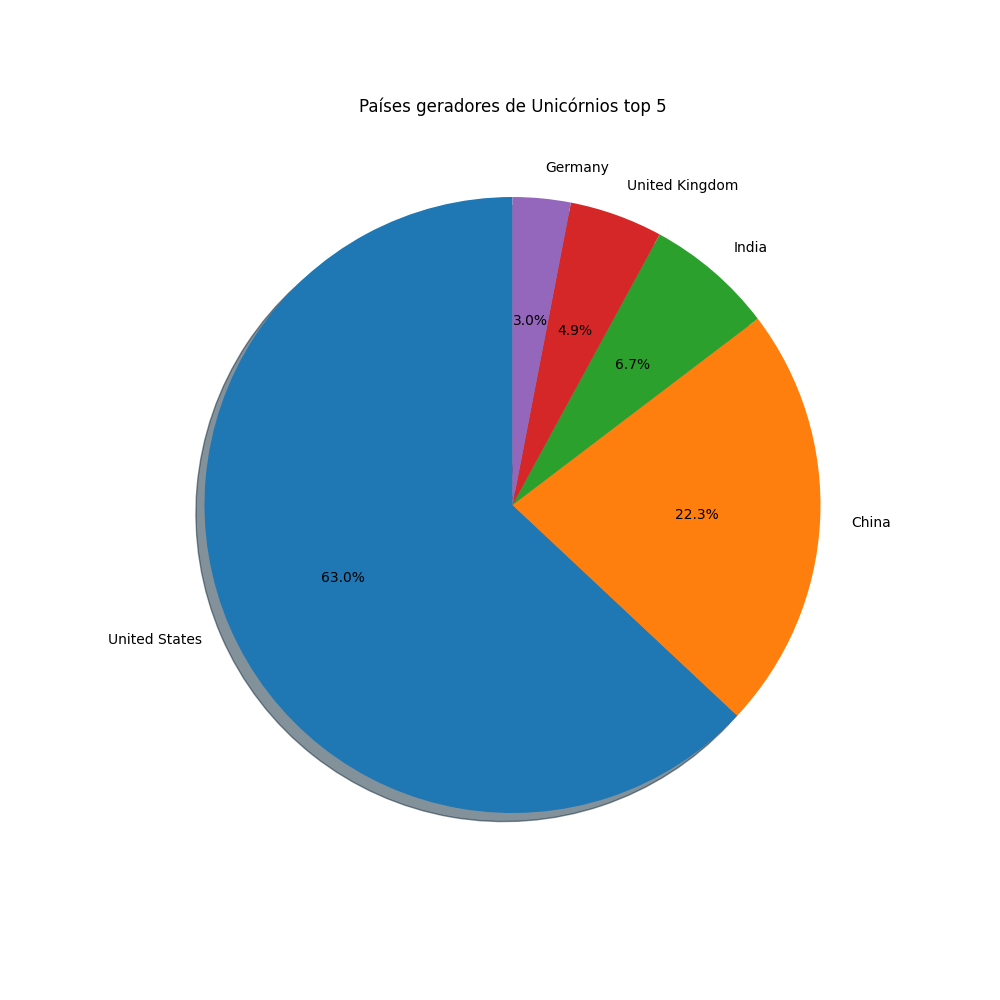
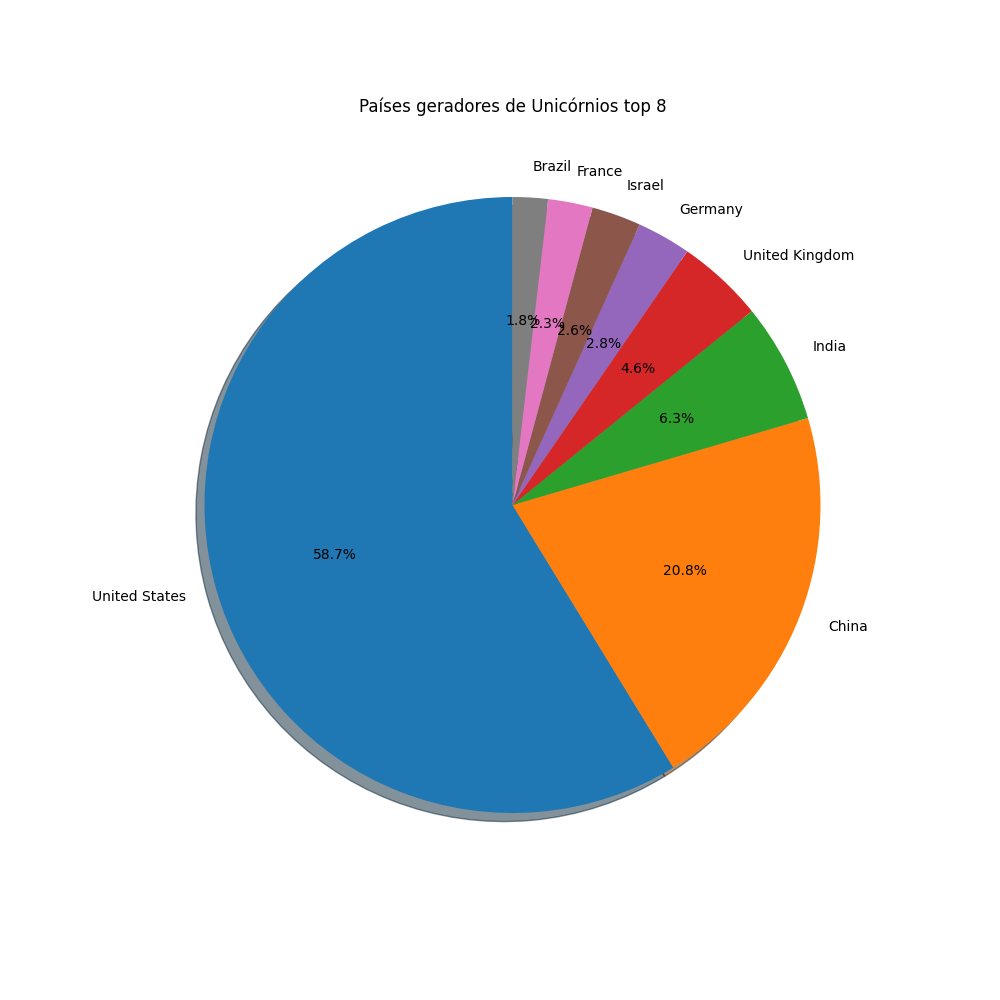
Atualização top8

diff --git a/Projeto_Unicornio.py b/Projeto_Unicornio.py
@@ -52,11 +52,11 @@ plt.subplots_adjust(bottom=0.2)
 plt.savefig('Gráfico Analise dos Setores.png')
 plt.show()
 
-# # Plot Geral dos Países top 5 em gráfico de pizza
+# # Plot Geral dos Países top 8 em gráfico de pizza
 plt.figure(figsize=(10,10))
-plt.title('Países geradores de Unicórnios top 5')
+plt.title('Países geradores de Unicórnios top 8')
 
-plt.pie((data_frame['País'].value_counts(normalize=True)*100).head(5),labels=data_frame['País'].value_counts().index[0:5],shadow=True,startangle=90,autopct='%1.1f%%' )
+plt.pie((data_frame['País'].value_counts(normalize=True)*100).head(8),labels=data_frame['País'].value_counts().index[0:8],shadow=True,startangle=90,autopct='%1.1f%%' )
 plt.xticks(rotation=90,ha='right')
 plt.savefig('Gráfico Países geradores de Unicórnios.png')
 plt.show()
